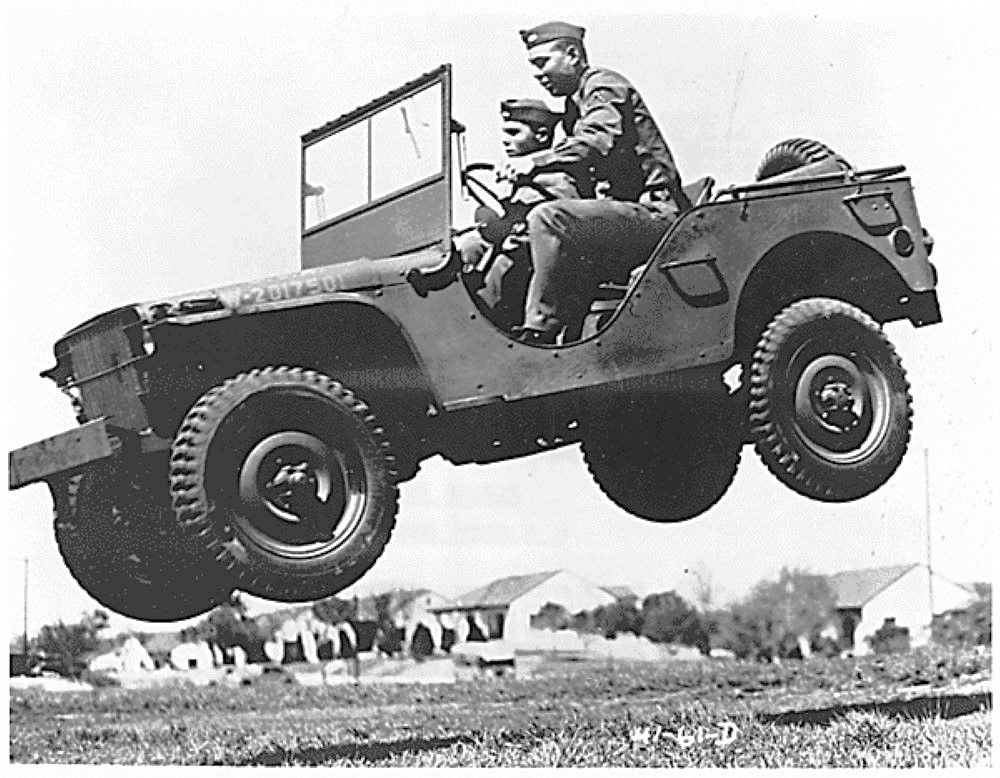
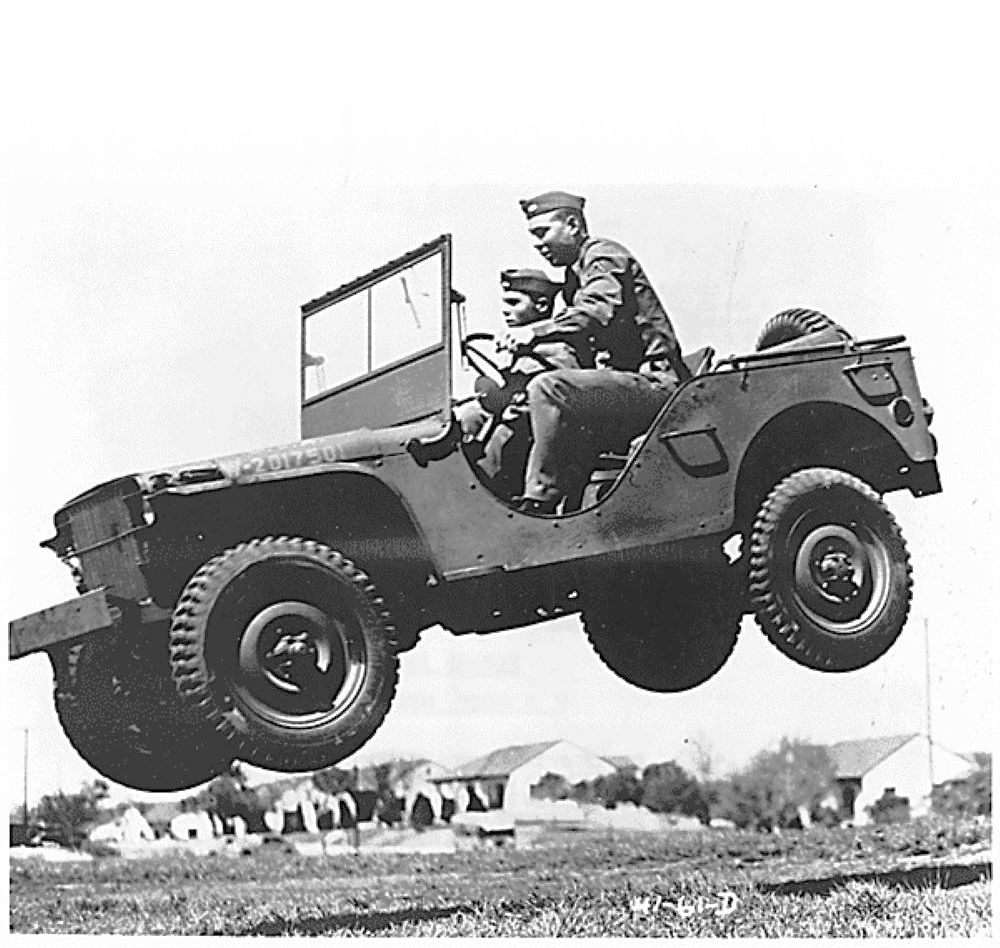
fixed image spacing

diff --git a/index.html b/index.html
@@ -35,7 +35,7 @@ button.go{width:100%;padding:13px;border:0;border-radius:8px;background:var(--re
 .chart{display:flex;align-items:flex-end;gap:6px;margin-top:10px;position:relative}.chart div{flex:1;display:flex;flex-direction:column;justify-content:flex-end;text-align:center;font-size:11px;line-height:15px;color:var(--mu)}.chart small{font-size:9px;line-height:12px}
 .chart span{display:block;background:var(--ac2)}.chart span.t,.chart span.ex{border-radius:3px 3px 0 0}.chart .ok span{background:var(--ok)}.chart .ok span.ex{background:#9bffbc}.chart .bad span{background:#8a2231}.chart .bad span.ex{background:var(--bad)}.chart .cur{opacity:.6}.gt{position:absolute;right:0;font:9px "Roboto Mono",monospace;font-style:normal;color:var(--bad)}
 .gl{position:absolute;left:0;right:0;border-top:1px dashed var(--red);pointer-events:none}
-nav{z-index:10;position:fixed;left:0;right:0;bottom:0;background:#0a0a0a;border-top:1px solid var(--ln);display:flex;padding:0 6px calc(6px + env(safe-area-inset-bottom,0px))}
+nav{z-index:10;position:fixed;left:0;right:0;bottom:0;background:#0a0a0a;border-top:1px solid var(--ln);display:flex;padding:0 6px max(8px,calc(env(safe-area-inset-bottom,0px) - 10px))}
 nav button{flex:1;background:none;border:0;color:var(--mu);font-size:11px;letter-spacing:.1em;text-transform:uppercase;padding:8px 0 4px;box-shadow:inset 0 2px 0 transparent}nav button span{display:block}nav .ic{width:24px;height:24px;margin:0 auto 2px}
 nav button.on{color:#fff;font-weight:700;box-shadow:inset 0 2px 0 var(--red)}
 .dot{display:inline-block;width:9px;height:9px;border-radius:2px;margin-right:6px}
@@ -406,10 +406,11 @@ function wishCards(W,ownName,othName){
   +W(ownName+"'s list",`<div class="row" style="gap:8px;margin:10px 0 4px"><input id="wnew" placeholder="Add something you want" onkeydown="if(event.key==='Enter')wAdd()"><button class="go" style="width:auto;margin:0;padding:12px 18px" onclick="wAdd()">Add</button></div>`+(open.map(x=>wOwn(x,0)).join('')||empty)+tg('m',got.length)+(WSH.m?got.map(x=>wOwn(x,1)).join(''):''))}
 function wishIn(row){const m=(row&&row.data&&row.data.meishe&&row.data.meishe.wish)||[];if(JSON.stringify(m)!==JSON.stringify(S.wishM||[])){S.wishM=m;persist();if(S.tab==='wish'&&!/INPUT|TEXTAREA/.test(document.activeElement.tagName))render()}}
 function wish(){const W=(t,b)=>`<div class="card"><b>${esc(t)}</b>${b}</div>`;
- return`${hero('hero-wish.jpg','1000/778','Wish List','JOSH &amp; MEISHE',.96,'b')}<div class="sub">Edit your own list. Hers is view-only: tick an item when you buy it and it disappears from your view (she won't see that).</div>${wishCards(W,'Josh','Meishe')}`}
+ return`${hero('hero-wish.jpg','1000/948','Wish List','JOSH &amp; MEISHE',.97,'b')}<div class="sub">Edit your own list. Hers is view-only: tick an item when you buy it and it disappears from your view (she won't see that).</div>${wishCards(W,'Josh','Meishe')}`}
 function render(){autoFast();const y=scrollY;BGI=null;const html=(S.tab==='today'?'':hdr())+{today:todayV,spend,food,faith,fit,wish}[S.tab]();document.getElementById('app').innerHTML=html;const bg=document.getElementById('bg');bg.style.backgroundImage=BGI?`url(${BGI[0]})`:'none';bg.style.aspectRatio=BGI?BGI[1]:'auto';bg.style.height=BGI?'':'0';bg.style.top=(BGI?BGI[3]:0)+'px';const ht=document.querySelector('.ht');if(ht&&BGI){const top=ht.getBoundingClientRect().top+scrollY;ht.style.height=Math.max(64,BGI[2]*bg.offsetHeight+BGI[3]-top-12)+'px'}
  document.getElementById('nav').innerHTML=Object.entries(TABS).map(([k,v])=>`<button class="${S.tab===k?'on':''}" onclick="S.tab='${k}';save();render();scrollTo(0,0)"><span>${ICON[k]}</span>${v[1]}</button>`).join('');scrollTo(0,y)}
 render();
+document.addEventListener('focusout',()=>setTimeout(()=>{if(!/INPUT|TEXTAREA|SELECT/.test((document.activeElement||{}).tagName||'')){const y=scrollY;scrollTo(0,y+1);scrollTo(0,y)}},150));
 (AU?sync():Promise.resolve()).then(()=>save());if(AU)bankSync(true);
 document.addEventListener('visibilitychange',()=>{if(AU&&!document.hidden){sync().then(()=>save());bankSync(true)}});window.addEventListener('online',()=>{if(AU)sync()});
 try{navigator.storage&&navigator.storage.persist&&navigator.storage.persist()}catch(e){}
